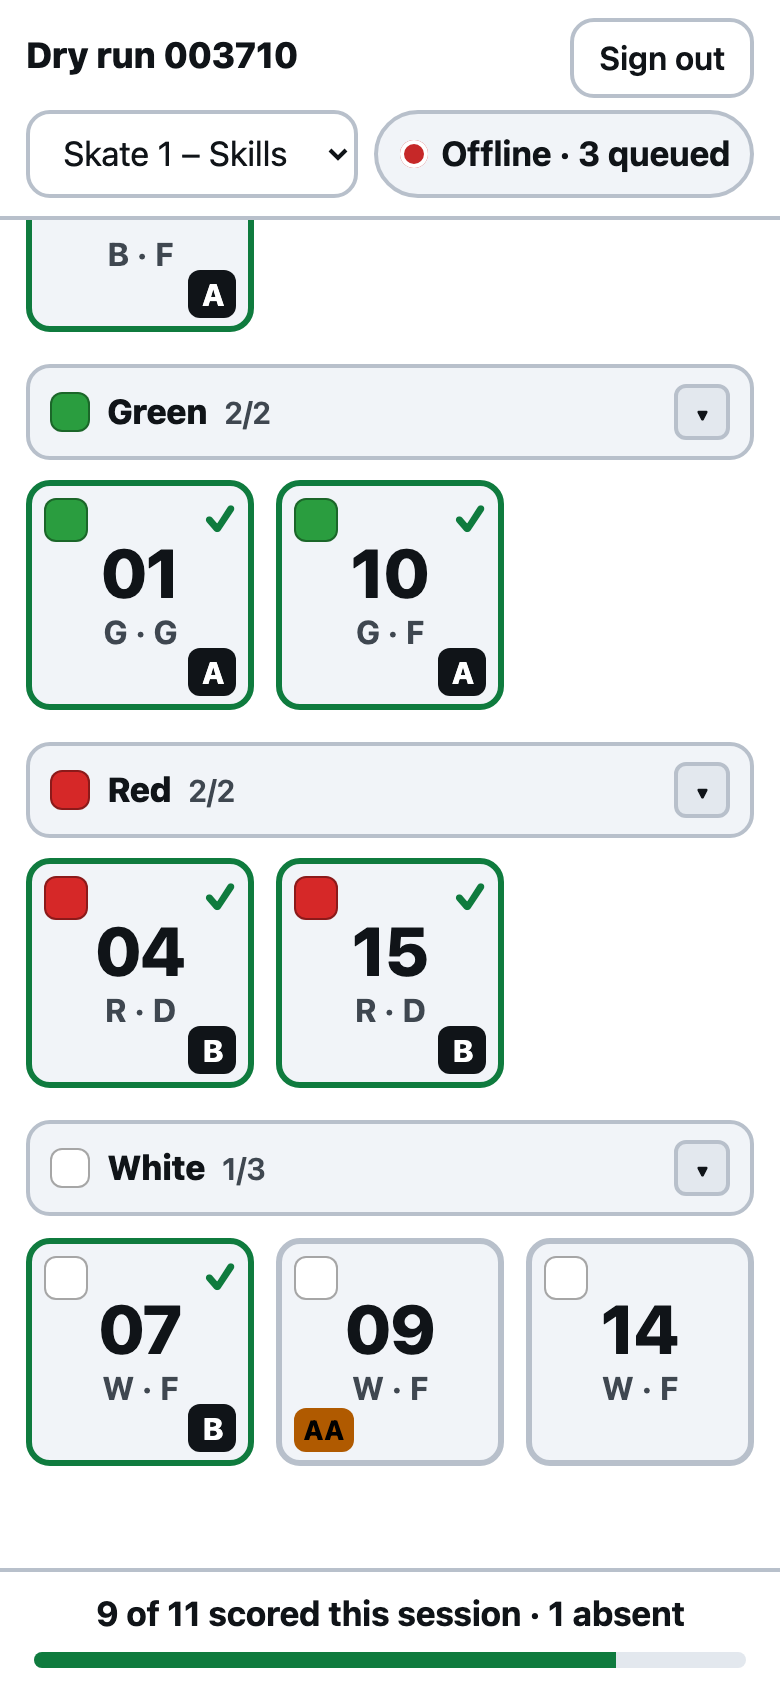
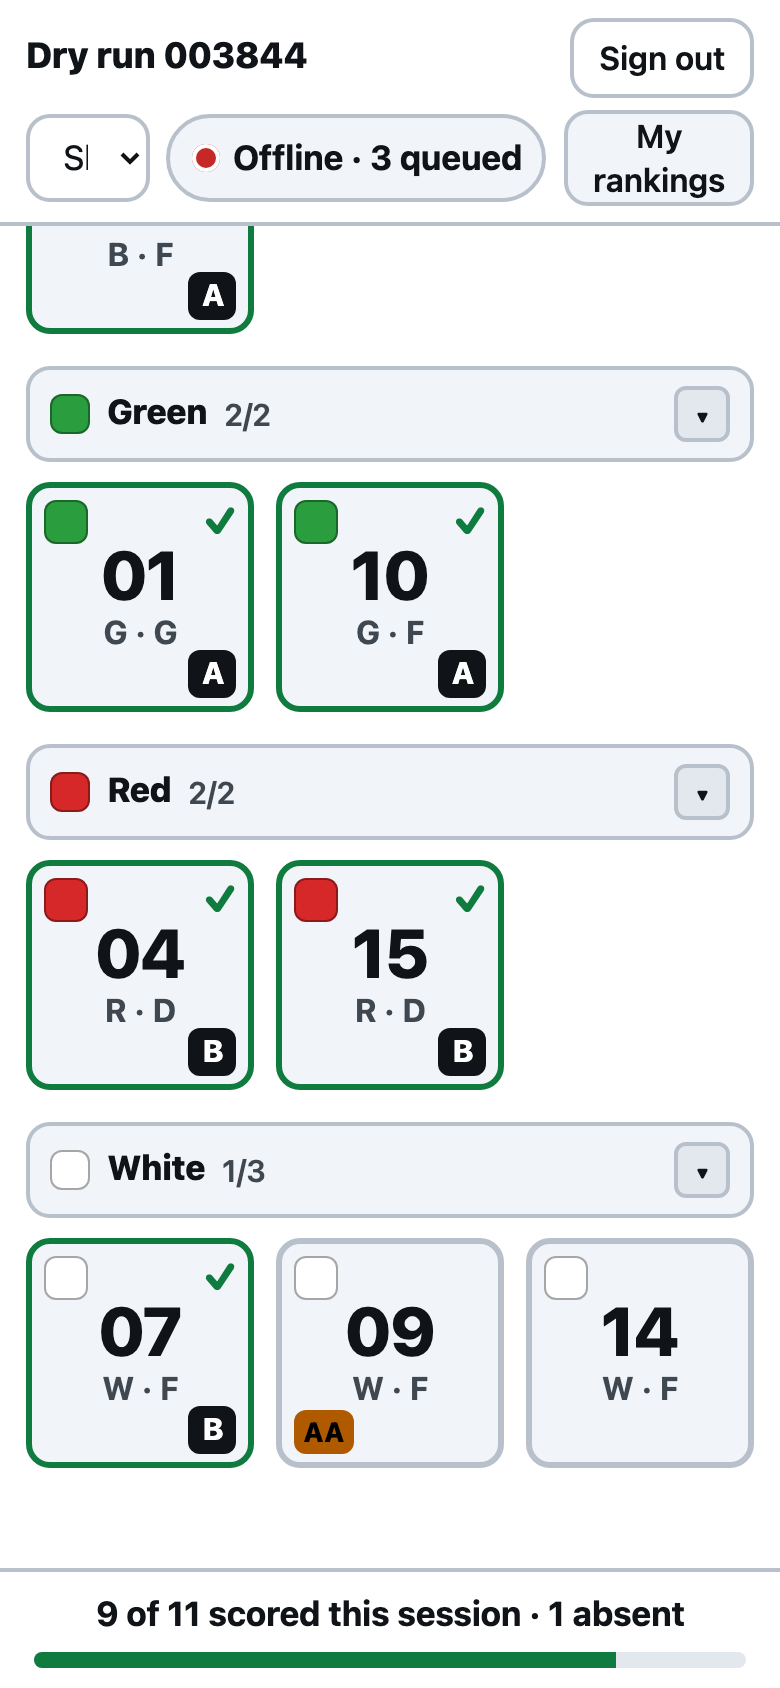
Evaluator screen: My rankings (own scores only)
Header button opens a full-height panel listing every player the evaluator
has scored across all sessions, best first: sessions scored, average of their
own overalls, tiers given, last note, with F/D/G filters. Built from
myEvaluations per session merged with what is saved on the phone, so it works
offline; nothing from other evaluators is ever included.

diff --git a/web/js/evaluate.js b/web/js/evaluate.js
@@ -5,7 +5,7 @@ import {
   registerServiceWorker, NetworkError, AuthError, Q_CURRENT_TRYOUT, Q_MY_EVALS, normalizeTryout, parseScores, swatchColour,
   wornColour, wornCode, isAbsent, isPlaying, teamNameOf,
 } from "./api.js";
-import { SCALE, TIERS, criteriaFor, NOTES_MAX } from "./criteria.js";
+import { SCALE, TIERS, criteriaFor, weightedScore, NOTES_MAX } from "./criteria.js";
 
 registerServiceWorker();
 const me = await requireAuth();
@@ -378,7 +378,7 @@ $("saveNext").addEventListener("click", () => {
 });
 $("saveClose").addEventListener("click", closeSheet);
 $("sheetClose").addEventListener("click", closeSheet);
-$("sheetBackdrop").addEventListener("click", closeSheet);
+$("sheetBackdrop").addEventListener("click", () => { if (!$("myRank").hidden) closeMyRankings(); else closeSheet(); });
 $("clearBtn").addEventListener("click", () => {
   if (!state.current || isReadOnly()) return;
   if (!confirm(`Clear all scores, tier and notes for ${state.current} in this session?`)) return;
@@ -431,6 +431,100 @@ $("syncBtn").addEventListener("click", async () => {
   flush();
 });
 onSynced(() => { /* status listener already updates the dot */ });
+
+// ----------------------------------------------------------------------------- My rankings (own scores only)
+let myPos = "all";
+
+/** This evaluator's evaluations for every session: server rows merged with what is saved on this phone. */
+async function loadAllMyEvaluations() {
+  const t = state.tryout;
+  const bySession = new Map();
+  for (const s of t.sessions) {
+    const local = store.get(`evals:${t.id}:${s.id}:${me.sub}`, {});
+    const merged = { ...local };
+    try {
+      const data = await gql(Q_MY_EVALS, { tryoutId: t.id, sessionId: s.id });
+      for (const e of data.myEvaluations) {
+        const server = { scores: parseScores(e.scores), tier: e.tier || null, notes: e.notes || "", updatedAt: e.updatedAt };
+        const mine = merged[e.playerNumber];
+        if (!mine || !mine.updatedAt || mine.updatedAt < server.updatedAt) merged[e.playerNumber] = server;
+      }
+    } catch (err) {
+      if (err instanceof AuthError) { location.replace("index.html"); return bySession; }
+      if (!(err instanceof NetworkError)) throw err; // offline: local copy only
+    }
+    bySession.set(s.id, merged);
+  }
+  return bySession;
+}
+
+function myRankingRows(bySession) {
+  const t = state.tryout;
+  const rows = new Map();
+  for (const s of t.sessions) {
+    const evals = bySession.get(s.id) || {};
+    for (const [pn, e] of Object.entries(evals)) {
+      if (!hasContent(e)) continue;
+      const p = t.players.find((x) => x.playerNumber === pn);
+      if (!p) continue;
+      const overall = weightedScore(p.position, e.scores || {});
+      if (!rows.has(pn)) rows.set(pn, { player: p, overalls: [], tiers: [], notes: [], sessions: 0 });
+      const r = rows.get(pn);
+      r.sessions += 1;
+      if (overall !== null) r.overalls.push(overall);
+      if (e.tier) r.tiers.push(e.tier);
+      if (e.notes && e.notes.trim()) r.notes.push(e.notes.trim());
+    }
+  }
+  return [...rows.values()].map((r) => ({
+    ...r,
+    avg: r.overalls.length ? r.overalls.reduce((a, b) => a + b, 0) / r.overalls.length : null,
+  })).sort((a, b) => {
+    if (a.avg === null && b.avg === null) return a.player.playerNumber.localeCompare(b.player.playerNumber);
+    if (a.avg === null) return 1; if (b.avg === null) return -1;
+    return b.avg - a.avg || a.player.playerNumber.localeCompare(b.player.playerNumber);
+  });
+}
+
+let myRows = [];
+function renderMyRankings() {
+  const body = $("myRankRows"); body.innerHTML = "";
+  const list = myRows.filter((r) => myPos === "all" || r.player.position === myPos);
+  list.forEach((r, i) => {
+    body.append(el("tr", {},
+      el("td", { class: "num" }, String(i + 1)),
+      el("td", {}, el("span", { class: "swatch", style: `background:${swatchColour(r.player.colour)}` }), el("b", {}, r.player.playerNumber), r.player.tag ? el("span", { class: "tagpill", style: "margin-left:.3rem" }, r.player.tag) : null),
+      el("td", {}, r.player.position),
+      el("td", { class: "num" }, String(r.sessions)),
+      el("td", { class: "num" }, r.avg === null ? "–" : r.avg.toFixed(2)),
+      el("td", {}, r.tiers.join(" ") || "–"),
+      el("td", { class: "small", style: "white-space:normal;min-width:160px" }, r.notes.length ? r.notes[r.notes.length - 1] : ""),
+    ));
+  });
+  if (!list.length) body.append(el("tr", {}, el("td", { colspan: 7, class: "muted" }, "You haven't scored anyone yet.")));
+  const scoredPlayers = myRows.length;
+  const evalCount = myRows.reduce((a, r) => a + r.sessions, 0);
+  $("myRankSummary").textContent = `${scoredPlayers} player${scoredPlayers === 1 ? "" : "s"} scored · ${evalCount} evaluation${evalCount === 1 ? "" : "s"} across ${state.tryout.sessions.length} session${state.tryout.sessions.length === 1 ? "" : "s"}${lastStatus && !lastStatus.online ? " · offline: showing what is saved on this phone" : ""}`;
+  for (const c of document.querySelectorAll("[data-mypos]")) c.setAttribute("aria-pressed", String(c.dataset.mypos === myPos));
+}
+
+async function openMyRankings() {
+  if (!state.tryout) return;
+  $("myRankSummary").textContent = "Loading your scores…";
+  $("myRank").hidden = false;
+  $("sheetBackdrop").hidden = false;
+  document.body.style.overflow = "hidden";
+  myRows = myRankingRows(await loadAllMyEvaluations());
+  renderMyRankings();
+}
+function closeMyRankings() {
+  $("myRank").hidden = true;
+  if ($("sheet").hidden) { $("sheetBackdrop").hidden = true; document.body.style.overflow = ""; }
+}
+$("myRankBtn").addEventListener("click", openMyRankings);
+$("myRankClose").addEventListener("click", closeMyRankings);
+$("myRankDone").addEventListener("click", closeMyRankings);
+for (const c of document.querySelectorAll("[data-mypos]")) c.addEventListener("click", () => { myPos = c.dataset.mypos; renderMyRankings(); });
 
 // ----------------------------------------------------------------------------- Session + sign out
 $("sessionSelect").addEventListener("change", async (ev) => {

diff --git a/web/evaluate.html b/web/evaluate.html
@@ -23,6 +23,7 @@
     <button id="syncBtn" class="sync green" type="button" aria-live="polite" title="Sync status">
       <span class="dot"></span><span id="syncText">Synced</span>
     </button>
+    <button id="myRankBtn" class="btn sm" type="button" title="Your own scores, ranked">My rankings</button>
   </div>
 </header>
 
@@ -74,6 +75,29 @@
 <div id="tip" class="tip" hidden></div>
 
 <!-- Sign-out warning -->
+<!-- My rankings: this evaluator's own scores across all sessions, nothing from anyone else -->
+<section id="myRank" class="sheet" role="dialog" aria-modal="true" aria-labelledby="myRankTitle" hidden>
+  <div class="head">
+    <div>
+      <div id="myRankTitle" class="who" style="font-size:1.5rem">My rankings</div>
+      <div class="small muted">Your scores only, all sessions combined. Nobody else's scores are included.</div>
+    </div>
+    <button id="myRankClose" class="btn sm ghost" type="button" aria-label="Close">✕</button>
+  </div>
+  <div class="body" id="myRankBody">
+    <nav class="chips" style="padding:.4rem 0" aria-label="Position">
+      <button class="chip" type="button" data-mypos="all" aria-pressed="true">All</button>
+      <button class="chip" type="button" data-mypos="F" aria-pressed="false">F</button>
+      <button class="chip" type="button" data-mypos="D" aria-pressed="false">D</button>
+      <button class="chip" type="button" data-mypos="G" aria-pressed="false">G</button>
+    </nav>
+    <p id="myRankSummary" class="small muted" style="margin:.25rem 0 .5rem"></p>
+    <div class="table-wrap"><table id="myRankTable"><thead><tr><th>#</th><th>Player</th><th>Pos</th><th class="num">Sessions</th><th class="num">Avg</th><th>Tiers</th><th>Last note</th></tr></thead><tbody id="myRankRows"></tbody></table></div>
+    <p class="small muted" style="margin-top:.6rem">Avg is the weighted average of the skills you scored, averaged over the sessions you scored that player in. Tiers lists the tier you gave each session.</p>
+  </div>
+  <div class="sheet-foot"><div class="actions"><button id="myRankDone" class="btn primary full" type="button">Back to scoring</button></div></div>
+</section>
+
 <div id="signOutModal" class="modal-backdrop" hidden>
   <div class="modal" role="alertdialog" aria-labelledby="soTitle">
     <h2 id="soTitle">Scores still waiting to sync</h2>

diff --git a/tests/e2e/dry-run.js b/tests/e2e/dry-run.js
@@ -369,6 +369,22 @@ try {
   await ev.locator("#syncText", { hasText: "Synced" }).waitFor({ timeout: 45000 });
   log("back online: outbox flushed, dot green");
 
+  // My rankings: the evaluator's own 9 scored players, best first, own scores only
+  await ev.click("#myRankBtn");
+  await ev.locator("#myRank").waitFor({ state: "visible" });
+  await ev.locator("#myRankRows tr").first().waitFor({ timeout: 20000 });
+  const myCount = await ev.locator("#myRankRows tr").count();
+  assert(myCount === 9, `my rankings list the 9 players I scored, saw ${myCount}`);
+  const firstAvg = Number(await ev.locator("#myRankRows tr").first().locator("td").nth(4).textContent());
+  const lastAvg = Number(await ev.locator("#myRankRows tr").last().locator("td").nth(4).textContent());
+  assert(firstAvg >= lastAvg, "sorted best first");
+  assert(/9 players scored · 9 evaluations/.test(await ev.locator("#myRankSummary").textContent()), `summary: ${await ev.locator("#myRankSummary").textContent()}`);
+  await ev.click('[data-mypos="D"]');
+  assert((await ev.locator("#myRankRows tr").count()) < 9, "position filter narrows the list");
+  await ev.click("#myRankDone");
+  await ev.locator("#myRank").waitFor({ state: "hidden" });
+  log("evaluator's own rankings shown and filtered");
+
   // ------------------------------------------------------------------ Admin scores as an evaluator too
   await admin.click('.tab[data-tab="evaluators"]');
   await admin.fill("#meLabel", "Convenor");

diff --git a/docs/RUNNING-A-TRYOUT.md b/docs/RUNNING-A-TRYOUT.md
@@ -186,6 +186,12 @@ a check mark and their tier letter.
 Evaluators can only ever see their own scores. They cannot see other evaluators, combined rankings or the
 convenor pages. If they re-score a player in the same session, the new scores replace the old ones.
 
+**My rankings.** The *My rankings* button in the header lists every player the evaluator has scored, across all
+sessions, best first: sessions scored, their average, the tier they gave each session and their last note, with
+F / D / G filters. It is built from their own scores only, so it is safe to bring into a discussion with other
+evaluators or the coaches without anyone seeing anyone else's numbers. It works offline from what is saved on the
+phone.
+
 ### Stopping an evaluator
 
 If an evaluator drops out, or you want to be sure nobody adds scores after the last skate, click **Disable**
